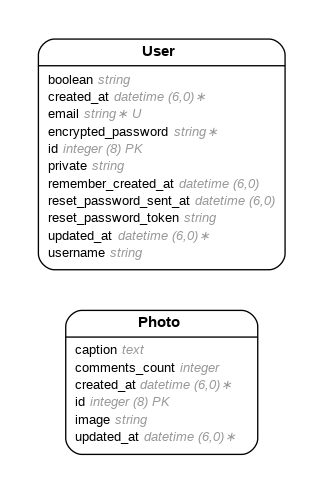
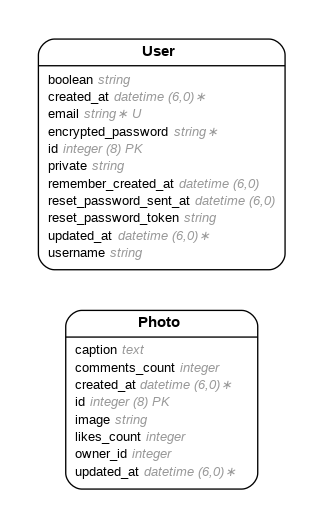
complete all the necessary columns for photos

Changed region(s): [[0.0929, 0.0609, 0.8978, 0.5477], [0.1858, 0.5781, 0.805, 0.9432], [0.0929, 0.0913, 0.1238, 0.1217]]

diff --git a/db/schema.rb b/db/schema.rb
@@ -10,7 +10,7 @@
 #
 # It's strongly recommended that you check this file into your version control system.
 
-ActiveRecord::Schema[7.1].define(version: 2025_05_20_210602) do
+ActiveRecord::Schema[7.1].define(version: 2025_05_20_230226) do
   # These are extensions that must be enabled in order to support this database
   enable_extension "plpgsql"
 
@@ -20,6 +20,8 @@ ActiveRecord::Schema[7.1].define(version: 2025_05_20_210602) do
     t.datetime "updated_at", null: false
     t.string "image"
     t.integer "comments_count"
+    t.integer "likes_count"
+    t.integer "owner_id"
   end
 
   create_table "users", force: :cascade do |t|
@@ -29,7 +31,8 @@ ActiveRecord::Schema[7.1].define(version: 2025_05_20_210602) do
     t.datetime "reset_password_sent_at"
     t.datetime "remember_created_at"
     t.string "username"
-    t.boolean "private"
+    t.string "private"
+    t.string "boolean"
     t.datetime "created_at", null: false
     t.datetime "updated_at", null: false
     t.index ["email"], name: "index_users_on_email", unique: true

diff --git a/config/routes.rb b/config/routes.rb
@@ -1,7 +1,7 @@
 Rails.application.routes.draw do
   devise_for :users
   # Routes for the Photo resource:
-  get "/", :controller => "photos", :action => "index"
+  
   # CREATE
   post("/insert_photo", { :controller => "photos", :action => "create" })
           
@@ -20,6 +20,6 @@ Rails.application.routes.draw do
   #------------------------------
 
   # Define your application routes per the DSL in https://guides.rubyonrails.org/routing.html
-
+  get "/", :controller => "photos", :action => "index"
 
 end

diff --git a/app/models/user.rb b/app/models/user.rb
@@ -3,9 +3,10 @@
 # Table name: users
 #
 #  id                     :bigint           not null, primary key
+#  boolean                :string
 #  email                  :string           default(""), not null
 #  encrypted_password     :string           default(""), not null
-#  private                :boolean
+#  private                :string
 #  remember_created_at    :datetime
 #  reset_password_sent_at :datetime
 #  reset_password_token   :string

diff --git a/app/models/photo.rb b/app/models/photo.rb
@@ -6,8 +6,10 @@
 #  caption        :text
 #  comments_count :integer
 #  image          :string
+#  likes_count    :integer
 #  created_at     :datetime         not null
 #  updated_at     :datetime         not null
+#  owner_id       :integer
 #
 class Photo < ApplicationRecord
 end

diff --git a/db/migrate/20250520230109_add_likes_count_to_photos.rb b/db/migrate/20250520230109_add_likes_count_to_photos.rb
@@ -1,0 +1,5 @@
+class AddLikesCountToPhotos < ActiveRecord::Migration[7.1]
+  def change
+    add_column :photos, :likes_count, :integer
+  end
+end

diff --git a/db/migrate/20250520230226_add_owner_id_to_photos.rb b/db/migrate/20250520230226_add_owner_id_to_photos.rb
@@ -1,0 +1,5 @@
+class AddOwnerIdToPhotos < ActiveRecord::Migration[7.1]
+  def change
+    add_column :photos, :owner_id, :integer
+  end
+end
